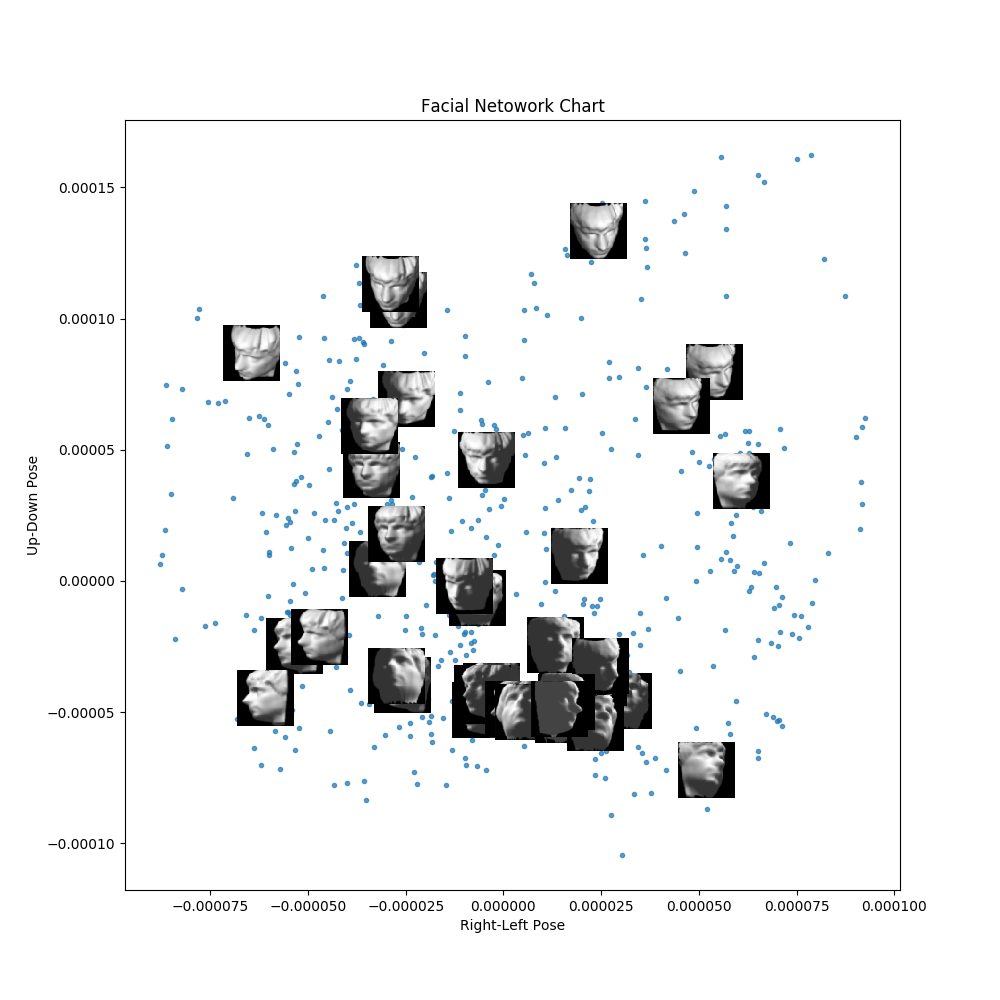
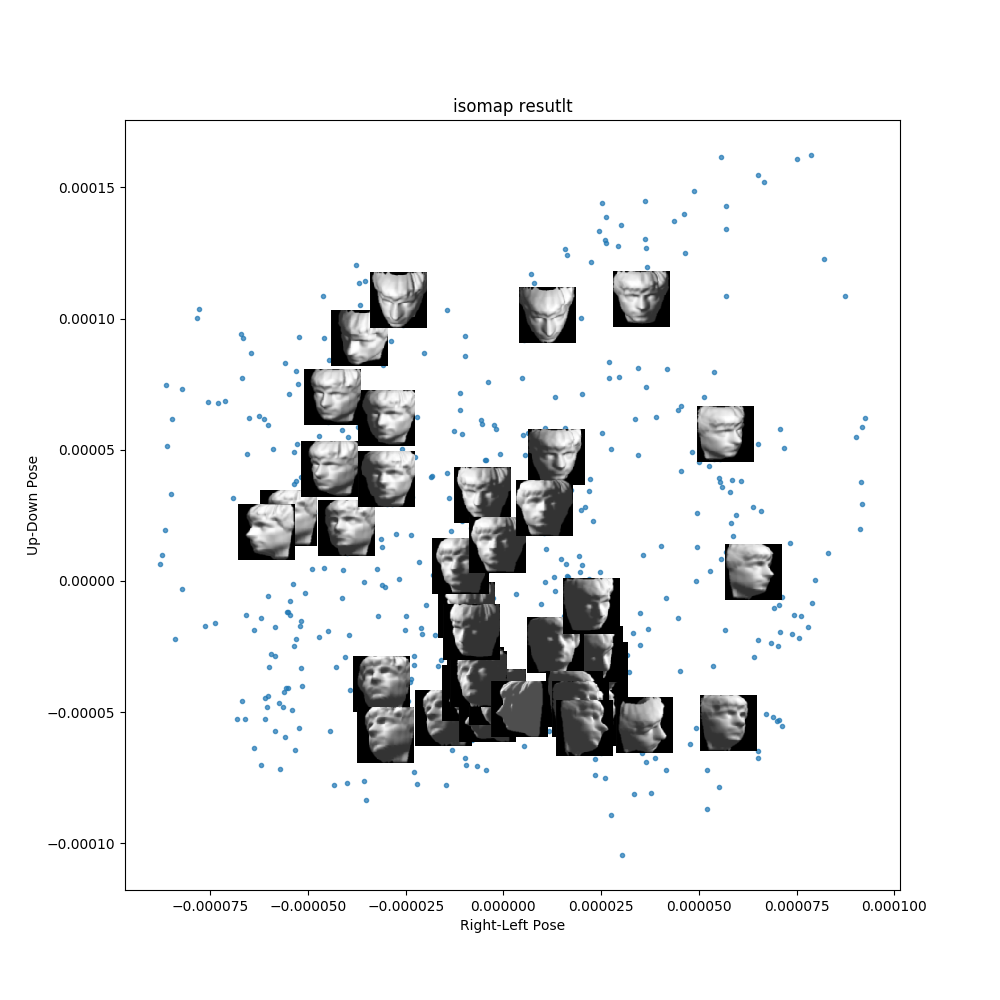
pca example

diff --git a/isomap.py b/isomap.py
@@ -28,8 +28,8 @@ def make_adjacency(data, dist_func="euclidean", eps=1):
 
    OUTPUT
    ------
-     adj - (ndarray) the adjacency matrix
-     dist - (ndarray) the distances of each point from one another
+     short - (ndarray) Distance matrix, the shortest path from every point to
+         every other point in the set, INF if not reachable. 
    """
    n, m = data.shape
    dist = cdist(data.T, data.T, metric=dist_func)
@@ -49,6 +49,21 @@ def isomap(d, dim=2):
     Take the shortest path distance matrix. This follows from the algorithm in
     class, create a centering matrix and apply it to the distance matrix D. Then
     we can compute the C matrix which will be used for the eigen-decomposion
+
+    Find out more 
+      1. https://en.wikipedia.org/wiki/Isomap
+      2. http://www-clmc.usc.edu/publications/T/tenenbaum-Science2000.pdf
+
+
+    INPUT
+    ------
+      d - (ndarray) Distance matrix between nodes. Should be square.
+      dim - (int) how many dimensions to reduce down too
+    
+    OUTPUT
+    ------
+      z - (ndarray) data projection into new reduced space. Each row maps back
+          to one of the origional datapoints
     """
 
     n, m = d.shape
@@ -69,13 +84,24 @@ def isomap(d, dim=2):
 
 def plot_graph(components, x, my_title="Facial Netowork Chart", filename="faces.png"):
     """
-    Plot the components and overlay some images over the chart
+    Plot the components and overlay the images that the points were derived 
+    from over the chart
 
     plotting code inspired by:
         http://benalexkeen.com/isomap-for-dimensionality-reduction-in-python/
+
+    INPUT
+    -----
+        components - (ndarray) the new reduced matrix (n x 2)
+        x - (ndarray) The original images (n x 4096)
+        filename - (str) name of the file to be saved
+        my_title - (str) title on the chart
+
+    OUTPUT
+    ------
+      Will save an image in directory "./img" with the provided filename
     """
 
-    # new stuff 
     n, m = x.shape
     fig = plt.figure()
     fig.set_size_inches(10, 10)
@@ -116,5 +142,13 @@ if __name__ == "__main__":
     # D = make_adjacency(m, eps=10.4, dist_func="euclidean")
     D = make_adjacency(m, eps=386, dist_func="cityblock")
     z = isomap(D)
-    plot_graph(z, x=m)
+    plot_graph(z, x=m, my_title="isomap resutlt")
+
+    #---
+    ## PCA
+    from sklearn.decomposition import PCA
+    pca = PCA(n_components=2)
+    z = pca.fit(m)
+    plot_graph(z.components_.T, x=m, my_title="PCA Resutl", 
+            filename="pca_faces.png")
 

diff --git a/README.md b/README.md
@@ -67,7 +67,7 @@ difference between ISOMAP and a linear approach.  We'll allow the path to travel
 through the shape of the data showing the points are related even though they
 might not actually be "close" regarding your distance metric. 
 
-![GT ISyE 6740](img/local_dist.png)  
+![GT ISyE 6740](img/local_dist-1.png)  
 
 Image from Georgia Tech ISyE 6740, Professor Xie
 
@@ -89,12 +89,42 @@ Then our distance matrix `D` would be
 Because 1 can reach 3 through 2
 
 #### Step 2 Centering Matrix
+Now we'll create the centering matrix that will be use to modify the distance
+matrix `D` we just created. 
 
+![H = I - 1/n * ee^T](img/h_matrix.svg)
+
+Now, we'll use this centering matrix on our distance matrix `D` to create our
+kernel matrix, `K`
+
+![K = -1/2HD^2H](img/k_matrix.svg)
 
 #### Step 3 Eigenvalues & Eigenvectors
+Finally, we take an eigenvalue decomposition of the kernel matrix `K`. The
+largest N (in our case 2) eigenvalues and their corresponding eigenvectors
+are the projections of our original data into the new plain.
+Since eigenvectors are all linearly independent thus, we will avoid collision.
 
-### Results
-Show results compared to PCA
+### Example
+In our example we'll take over 600 images, which are 64 x 64 and black & White,
+and project them into a two dimensional space. This project can be used to
+cluster or classify the images in another machine learning model.  
+
+If we use a linear method, like PCA, we will get a reduced result, but the
+relationship between the data is not clear the eye.  
+
+![PCA Result](img/pca_faces.png)
+
+Now, by running Isomap, we can show the corresponding images by their projected
+point and see that after the projection, the points that are near each other are
+quite similar. So the direction the face is looking, that information was
+carried through the projection.  Now this smaller dataset, from (684 x 4096) to
+(684 x 2) can be used as input to a clustering method like K-means.  In
+addition, the data set is no longer under-determined. TODO: <-- add link for  
+under-determined systems.  _Likely underfittng_ 
+
+![Isomap Result](img/faces.png)
+
 
 ### Additional Resources
 
